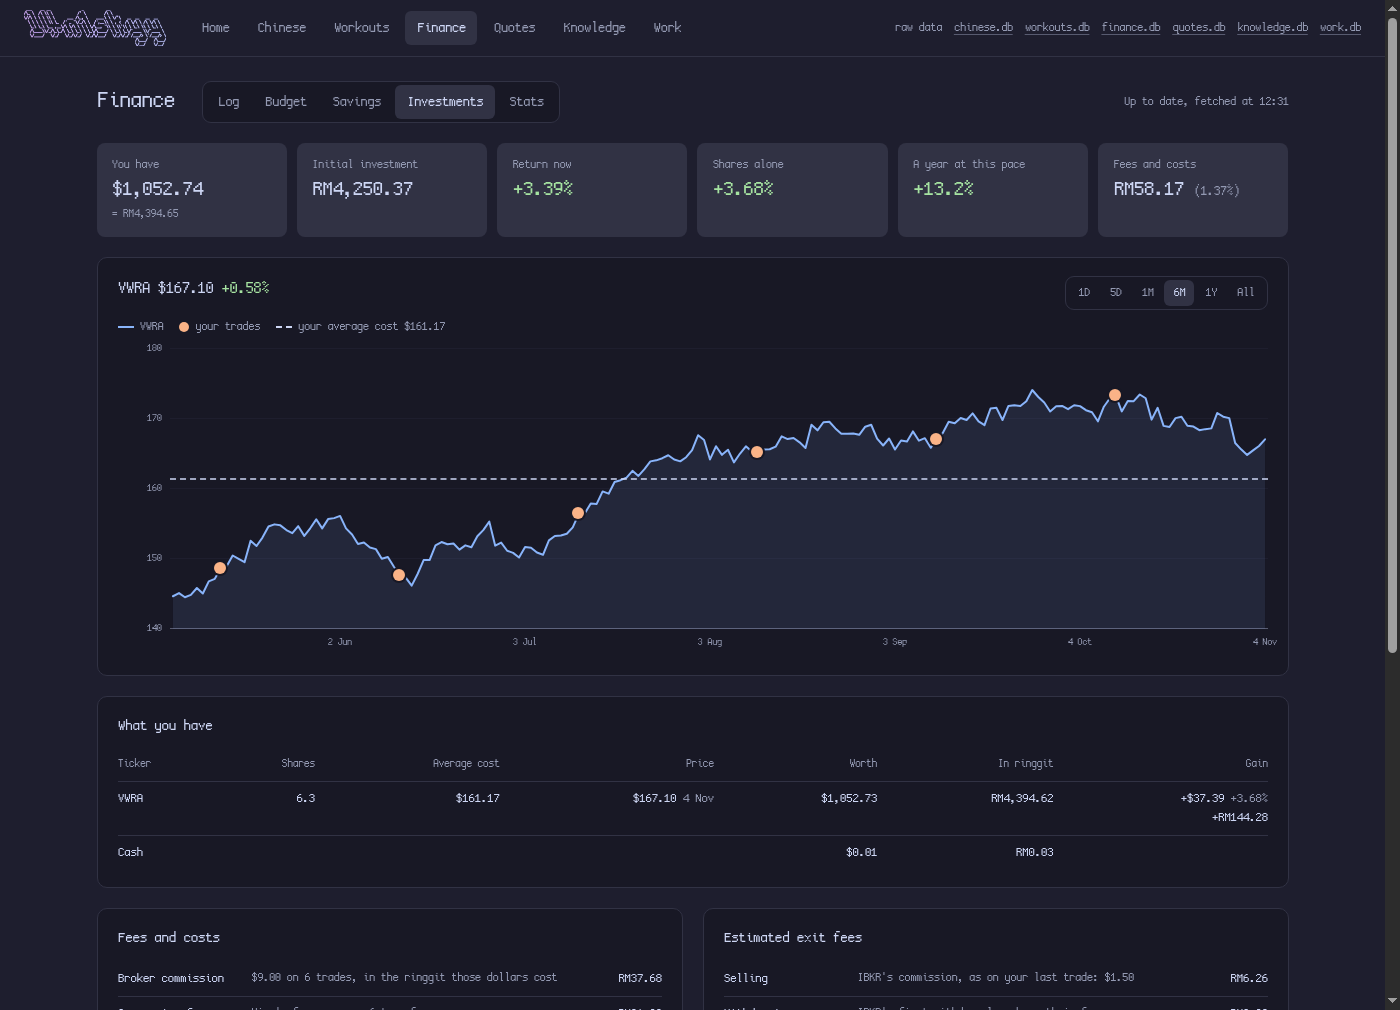
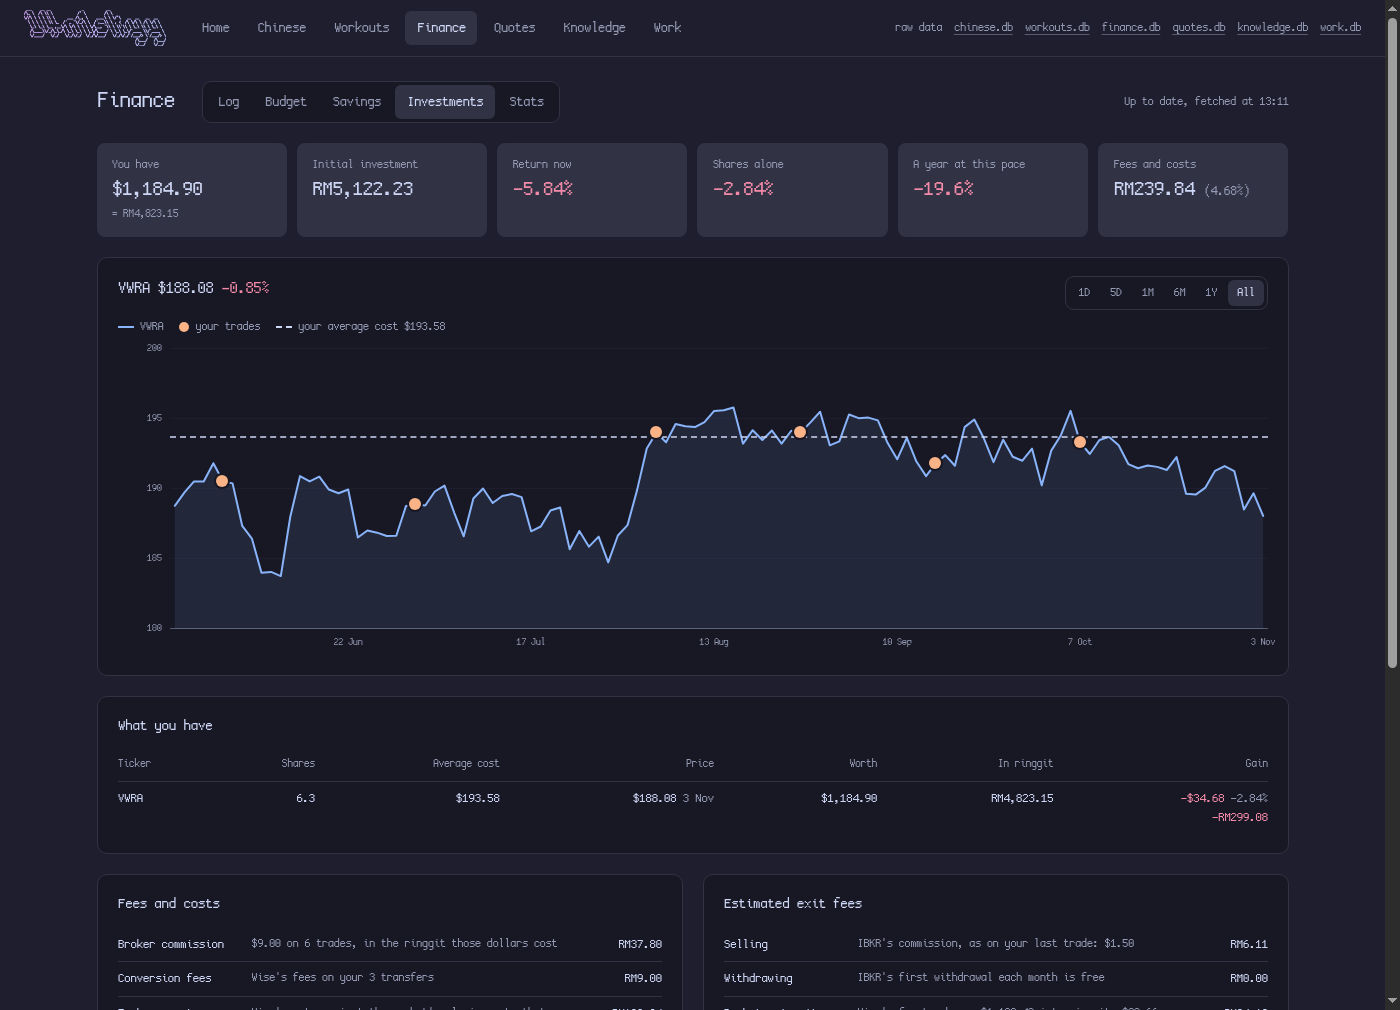
Work courses: one Save all, Programme label; weight left of subject; day arrows step one day; Savings opens on this year, Investments on All; Finance screenshot retaken

diff --git a/templates/app_work.html b/templates/app_work.html
@@ -34,9 +34,9 @@
         <summary>
           <span class="when-box{{ ' over' if t.days_left is not none and t.days_left < 0 }}">{% if t.due %}<b>{{ t.due|short_due }}</b><i>{{ t.due_time or t.due|days_ago }}</i>{% else %}<b>–</b><i>no date</i>{% endif %}</span>
           <span class="task-title">{{ t.title }}</span>
+          {% if t.weight is not none %}<span class="weight">{{ t.weight|round(1)|string|replace('.0', '') }}%</span>{% else %}<span class="weight"></span>{% endif %}
           {% if t.course %}<span class="subject">{{ t.course }}</span>{% endif %}
           <span class="flag f{{ t.priority }}">{{ t.priority_name if t.priority <= 2 }}</span>
-          {% if t.weight is not none %}<span class="weight">{{ t.weight|round(1)|string|replace('.0', '') }}%</span>{% else %}<span class="weight"></span>{% endif %}
         </summary>
         <div class="task-body">
           <div class="meta">{% if t.kind %}<span>{{ t.kind }}</span>{% endif %}<span>{{ due_text(t) }}</span><span>{{ t.priority_name }} priority</span></div>
@@ -74,29 +74,31 @@
 {% elif view == "courses" %}
 <section class="panel">
   {% if courses %}
-  <table class="tag-table">
-    <thead><tr><th>Code</th><th>Name</th><th>Term</th><th>Active</th><th class="n">Tasks</th><th></th><th></th></tr></thead>
+  <form id="courses-form" method="post" action="/-/work/course"><input type="hidden" name="action" value="save_all"></form>
+  <table class="tag-table course-table">
+    <thead><tr><th>Programme</th><th>Name</th><th>Term</th><th>Active</th><th class="n">Tasks</th><th></th></tr></thead>
     <tbody>{% for c in courses %}<tr>
-      <form id="c{{ c.id }}" method="post" action="/-/work/course"><input type="hidden" name="action" value="save"><input type="hidden" name="id" value="{{ c.id }}"></form>
-      <td><input form="c{{ c.id }}" name="code" value="{{ c.code }}" aria-label="Code" size="8"></td>
-      <td><input form="c{{ c.id }}" name="name" value="{{ c.name }}" aria-label="Name" required></td>
-      <td><input form="c{{ c.id }}" name="term" value="{{ c.term }}" aria-label="Term" size="12"></td>
-      <td><input form="c{{ c.id }}" type="checkbox" name="active" value="1"{% if c.active %} checked{% endif %} aria-label="Active"></td>
+      <td><input form="courses-form" name="code_{{ c.id }}" value="{{ c.code }}" aria-label="Programme"></td>
+      <td><input form="courses-form" name="name_{{ c.id }}" value="{{ c.name }}" aria-label="Name" required></td>
+      <td><input form="courses-form" name="term_{{ c.id }}" value="{{ c.term }}" aria-label="Term"></td>
+      <td><input form="courses-form" type="checkbox" name="active_{{ c.id }}" value="1"{% if c.active %} checked{% endif %} aria-label="Active"></td>
       <td class="n"><a href="/-/work?course={{ c.id }}">{{ c.tasks }}</a></td>
-      <td><button form="c{{ c.id }}" class="btn small">Save</button></td>
       <td class="n"><form method="post" action="/-/work/course" data-confirm="Delete {{ c.name }}? Its tasks stay, without a course.">
         <input type="hidden" name="action" value="delete"><input type="hidden" name="id" value="{{ c.id }}"><button class="icon danger">delete</button></form></td>
     </tr>{% endfor %}</tbody>
   </table>
   {% else %}<p class="empty">No courses yet.</p>{% endif %}
   <h2 class="settings-head">New course</h2>
+  <div class="course-foot">
   <form class="inline-form" method="post" action="/-/work/course">
     <input type="hidden" name="action" value="create">
-    <input name="code" placeholder="code, like CS101" size="12" aria-label="Code">
+    <input name="code" placeholder="programme" size="12" aria-label="Programme">
     <input name="name" required placeholder="name" aria-label="Name">
     <input name="term" placeholder="term, like Y3S1" size="14" aria-label="Term">
     <button class="btn small">Add it</button>
   </form>
+  <button form="courses-form" class="btn">Save all</button>
+  </div>
 </section>
 
 {% else %}

diff --git a/templates/app_finance.html b/templates/app_finance.html
@@ -65,9 +65,9 @@
 
   <section class="panel day">
     <header class="day-head">
-      <a class="btn small ghost{% if not prev_day %} disabled{% endif %}" {% if prev_day %}href="?date={{ prev_day }}"{% endif %} title="Previous day with expenses">‹</a>
+      <a class="btn small ghost{% if not prev_day %} disabled{% endif %}" {% if prev_day %}href="?date={{ prev_day }}"{% endif %} title="Previous day">‹</a>
       <h2>{{ day|nice_date(true) }} <span class="muted">{{ day|days_ago }}</span></h2>
-      <a class="btn small ghost{% if not next_day %} disabled{% endif %}" {% if next_day %}href="?date={{ next_day }}"{% endif %} title="Next day with expenses">›</a>
+      <a class="btn small ghost{% if not next_day %} disabled{% endif %}" {% if next_day %}href="?date={{ next_day }}"{% endif %} title="Next day">›</a>
       <span class="spacer"></span>
       {% if day != today %}<a class="btn small" href="?date={{ today }}">Today</a>{% endif %}
     </header>
@@ -257,7 +257,7 @@
         <h2>Savings at the end of each month</h2>
         {% if years %}
         <nav class="tab-group" aria-label="Which months">
-          <a href="?view=savings"{% if not year %} aria-current="page"{% endif %}>Last 24 months</a>
+          <a href="?view=savings&amp;year=24m"{% if not year %} aria-current="page"{% endif %}>Last 24 months</a>
           {% for y in years|reverse %}<a href="?view=savings&amp;year={{ y }}"{% if y == year %} aria-current="page"{% endif %}>{{ y }}</a>{% endfor %}
         </nav>
         {% endif %}

diff --git a/static/app.css b/static/app.css
@@ -829,3 +829,22 @@ table.costs td.n { width: 6.5em; }
 .zen-toggle { margin: 0 14px 0 0; } .zen-toggle input { accent-color: var(--accent); }
 .zen-toggle input[type=number] { width: 4.2em; padding: 3px 6px; margin: 0 2px; }
 .zen-add { margin: 0 14px 0 0; }
+
+/* Work > Courses: editable table with one Save all, bottom right */
+.course-table { table-layout: fixed; }
+.course-table th:nth-child(1) { width: 20%; }
+.course-table th:nth-child(3) { width: 18%; }
+.course-table th:nth-child(4) { width: 64px; }
+.course-table th:nth-child(5) { width: 64px; }
+.course-table th:nth-child(6) { width: 56px; }
+.course-table input:not([type="checkbox"]) { width: 100%; box-sizing: border-box; }
+.course-table td { padding-right: 12px; }
+.course-table td:nth-child(4) { text-align: center; }
+.course-table th:nth-child(4) { text-align: center; }
+.course-table td:last-child { padding-right: 0; }
+.form-actions { display: flex; justify-content: flex-end; margin-top: 16px; }
+@media (max-width: 700px) { .course-table { table-layout: auto; } .course-table input:not([type="checkbox"]) { width: 100%; min-width: 7em; } }
+.course-foot { display: flex; align-items: center; justify-content: space-between; gap: 12px; flex-wrap: wrap; }
+.course-table input[type="checkbox"] { accent-color: #cba6f7; }
+.course-table th:nth-child(4), .course-table td:nth-child(4) { padding-left: 0; padding-right: 12px; text-align: center; }
+.course-table input[type="checkbox"] { width: auto; margin: 0; vertical-align: middle; }

diff --git a/templates/app_workouts.html b/templates/app_workouts.html
@@ -30,9 +30,9 @@
 
   <section class="panel day">
     <header class="day-head">
-      <a class="btn small ghost{% if not prev_day %} disabled{% endif %}" {% if prev_day %}href="?date={{ prev_day }}"{% endif %} title="Previous workout">‹</a>
+      <a class="btn small ghost{% if not prev_day %} disabled{% endif %}" {% if prev_day %}href="?date={{ prev_day }}"{% endif %} title="Previous day">‹</a>
       <h2>{{ day|nice_date(true) }} <span class="muted">{{ day|days_ago }}</span></h2>
-      <a class="btn small ghost{% if not next_day %} disabled{% endif %}" {% if next_day %}href="?date={{ next_day }}"{% endif %} title="Next workout">›</a>
+      <a class="btn small ghost{% if not next_day %} disabled{% endif %}" {% if next_day %}href="?date={{ next_day }}"{% endif %} title="Next day">›</a>
       <span class="spacer"></span>
       {% if day != today %}<a class="btn small" href="?date={{ today }}">Today</a>{% endif %}
     </header>

diff --git a/plugins/app.py b/plugins/app.py
@@ -689,8 +689,8 @@ async def workouts(request, datasette):
             plan=plan, rest_day=plan is None and await is_rest_day(wo, day),
             groups=groups, prefill=prefill, last_per_exercise=last_per_exercise,
             total_sets=len(sets), total_volume=sum(g["volume"] for g in groups),
-            prev_day=(await one(wo, "SELECT max(date) AS d FROM sets WHERE date < :d", {"d": day})).get("d"),
-            next_day=(await one(wo, "SELECT min(date) AS d FROM sets WHERE date > :d", {"d": day})).get("d"),
+            prev_day=(date.fromisoformat(day) - timedelta(days=1)).isoformat(),
+            next_day=(date.fromisoformat(day) + timedelta(days=1)).isoformat() if day < date.today().isoformat() else None,
         )
     elif view == "plans":
         ctx.update(await plans_page(wo, request.args.get("plan")))
@@ -1025,8 +1025,8 @@ async def finance(request, datasette):
             expenses=await rows(fi, "SELECT id, category, amount, notes FROM expenses WHERE date = :d ORDER BY id", {"d": day}),
             prefill={"category": request.args.get("category", last.get("category", "")),
                      "amount": request.args.get("amount", ""), "notes": request.args.get("notes", "")},
-            prev_day=(await one(fi, "SELECT max(date) AS d FROM expenses WHERE date < :d", {"d": day})).get("d"),
-            next_day=(await one(fi, "SELECT min(date) AS d FROM expenses WHERE date > :d", {"d": day})).get("d"),
+            prev_day=(date.fromisoformat(day) - timedelta(days=1)).isoformat(),
+            next_day=(date.fromisoformat(day) + timedelta(days=1)).isoformat() if day < date.today().isoformat() else None,
         )
     elif view == "budget":
         month = request.args.get("month") or ""
@@ -1293,7 +1293,8 @@ async def finance_savings(fi, year=""):
                                total=round(sum(v for v in values if v is not None), 2)))
             month = add_months(month, 1)
     years = sorted({m["month"][:4] for m in months})
-    year = year if year in years else ""
+    this_year = str(date.today().year)
+    year = "" if year == "24m" else year if year in years else this_year if this_year in years else ""
     if year:  # January to December; months before the first entry or still to come stay empty
         have = {m["month"]: m for m in months}
         shown = [have.get(f"{year}-{k:02d}") or dict(month=f"{year}-{k:02d}", values=[None] * len(names),
@@ -2095,7 +2096,7 @@ async def finance_investments(fi, pick, rng):
     now = valuation(shares, today.isoformat())
     held = [p["ticker"] for p in now["positions"] if p["shares"] > 1e-9] or list(shares["tickers"])
     ticker = pick if pick in shares["tickers"] else (held[0] if held else None)
-    rng = rng if rng in RANGES else "1d"
+    rng = rng if rng in RANGES else "all"
     found = {r["key"]: r["value"] for r in await rows(fi, "SELECT key, value FROM settings WHERE key LIKE 'ibkr_%' OR key LIKE 'wise_%'")}
     ibkr = dict(token=bool(found.get("ibkr_flex_token")), query=found.get("ibkr_flex_query") or "",
                 error=found.get("ibkr_error"), waiting=await pending_deposits(fi))
@@ -2658,6 +2659,16 @@ async def uni_course(request, datasette):
     if action in ("create", "save") and not name:
         return back("/-/work", view="courses", error="A course needs a name.")
     db = datasette.get_database("work")
+    if action == "save_all":
+        ids = [k[5:] for k in form if k.startswith("name_") and k[5:].isdigit()]
+        for i in ids:
+            if not (form.get(f"name_{i}") or "").strip():
+                return back("/-/work", view="courses", error="A course needs a name.")
+        for i in ids:
+            await db.execute_write("UPDATE courses SET code = ?, name = ?, term = ?, active = ? WHERE id = ?",
+                                   [(form.get(f"code_{i}") or "").strip(), form.get(f"name_{i}").strip(),
+                                    (form.get(f"term_{i}") or "").strip(), 1 if form.get(f"active_{i}") else 0, int(i)])
+        return back("/-/work", view="courses", msg="Saved.")
     if action == "create":
         await db.execute_write("INSERT INTO courses (code, name, term) VALUES (?, ?, ?)", [code, name, term])
         msg = f"Added {name}."
